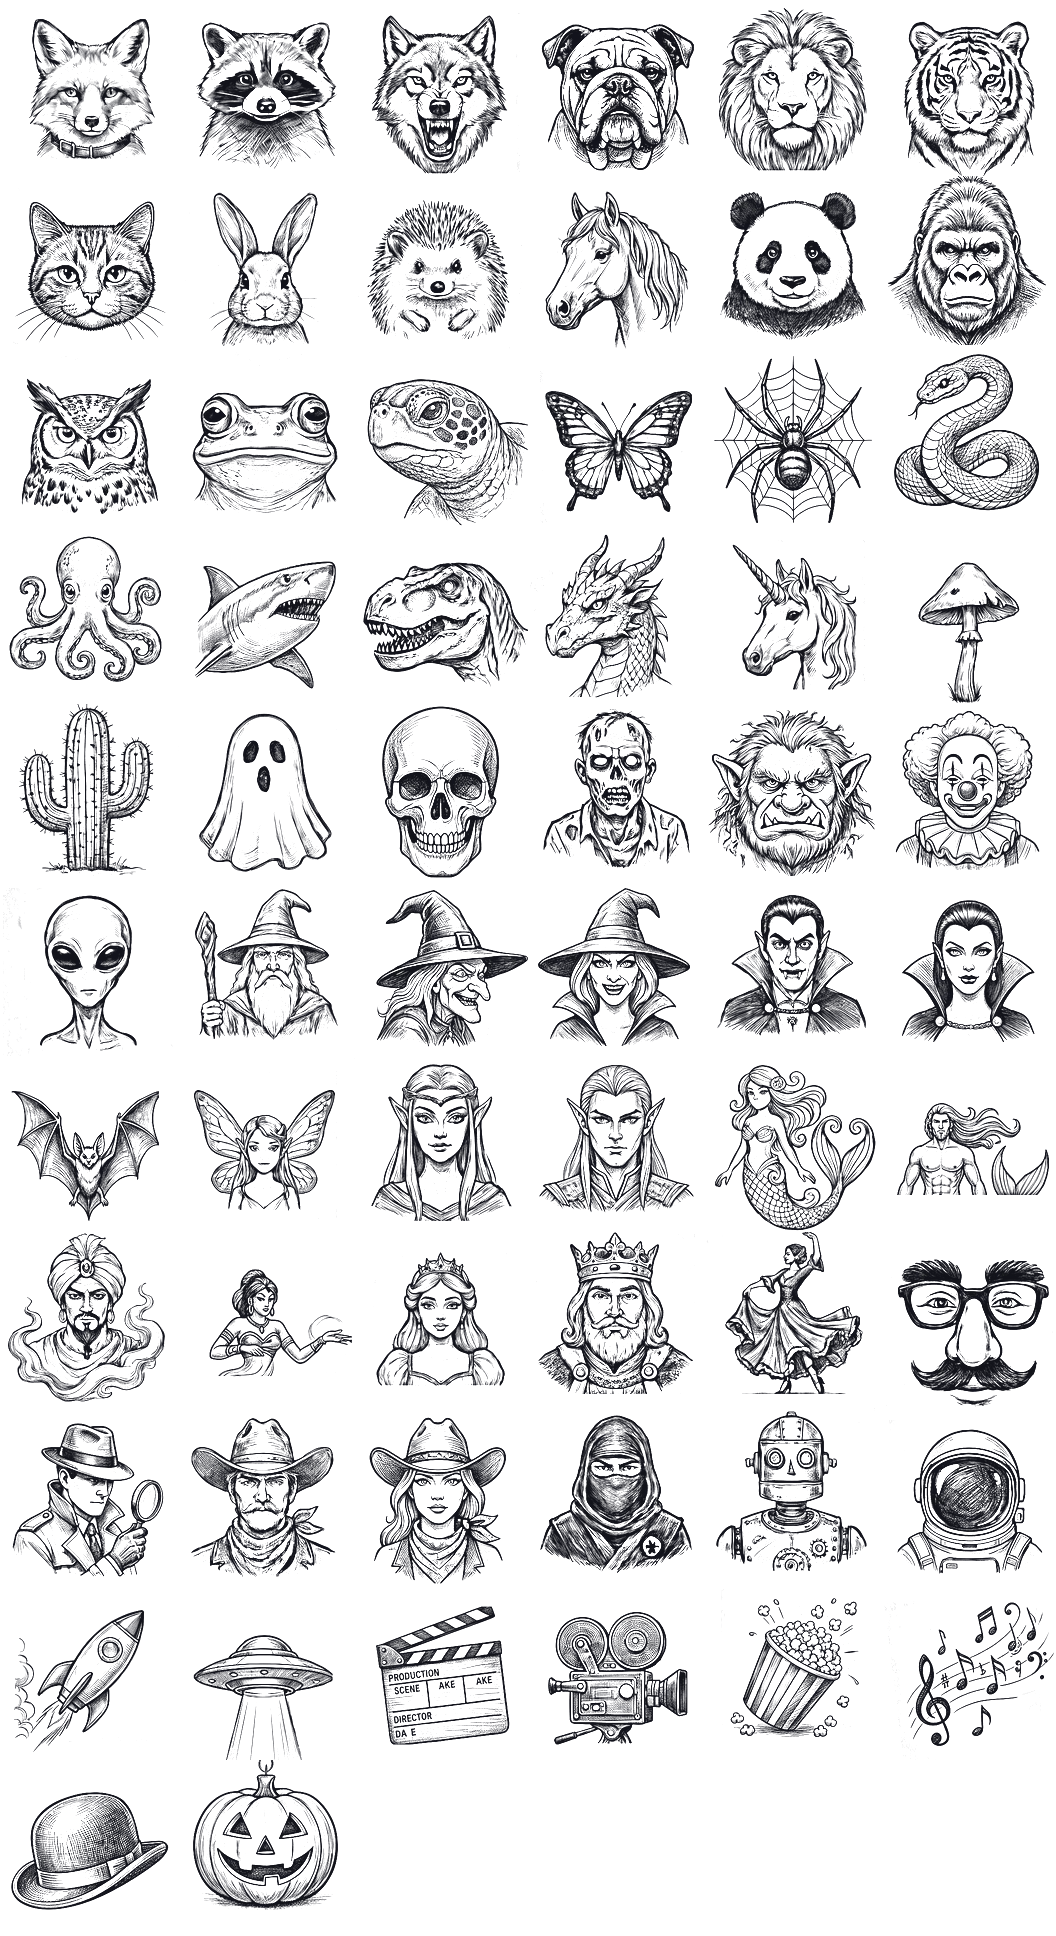
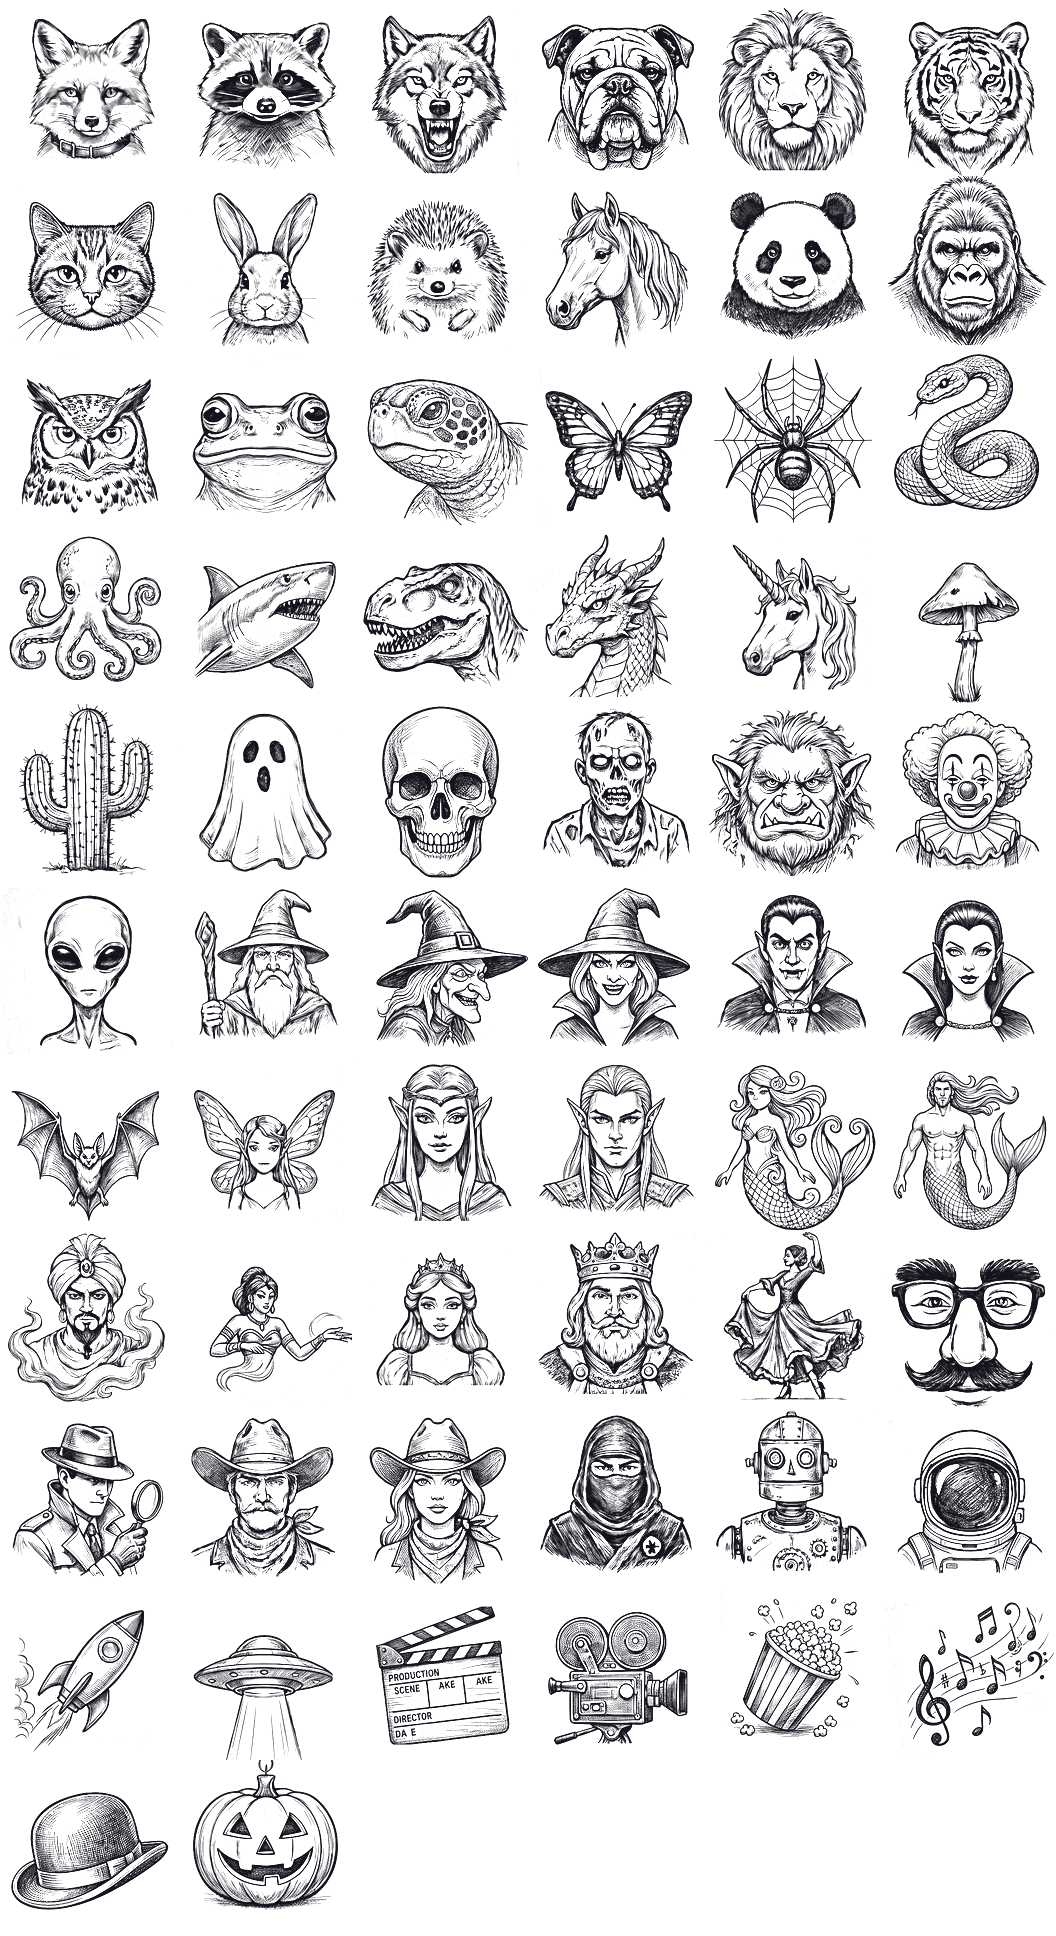
Let the wash hug the drawing (v0.48.2)
Reach drops from 0.060 to 0.045 across the set. The panda showed why: its ears
are solid black while its face is mostly white, so a wash driven by ink density
came out thick around the ears and tight everywhere else - an outline of uneven
weight around one head. Checked the tighter value on twelve deliberately varied
cells first, including the thin ones most at risk: the butterfly, the spider's
web, the music stave. All read better, so it is global rather than per-cell, and
it also removes the bulge that had appeared under the frog's chin.

The dancer is the one exception and takes a wider reach: her raised arm is a
thin stroke far from the rest of her and loses its ground at the default. She
also moves down so the arm sits inside the circle.

The merman and the genie go back to full figures. The moustache is re-centred.

Changed region(s): [[0.8438, 0.5579, 1.0, 0.7438], [0.6875, 0.6198, 0.8125, 0.7438], [0.1875, 0.6508, 0.3438, 0.7128]]

diff --git a/index.html b/index.html
@@ -14,9 +14,9 @@
 <script src="https://cdn.jsdelivr.net/npm/@supabase/supabase-js@2"></script>
 <!-- Versioned on purpose. index.html is served network-first while assets are
      cache-first, so without the query a fresh page could load a cached older
-     emoji.js - which is exactly what emptied the avatar picker after v0.48.1.
+     emoji.js - which is exactly what emptied the avatar picker after v0.48.2.
      Bump this with the release; sw.js precaches the same URL. -->
-<script src="./emoji.js?v=0.48.1"></script>
+<script src="./emoji.js?v=0.48.2"></script>
 <link rel="preconnect" href="https://fonts.googleapis.com">
 <link rel="preconnect" href="https://fonts.gstatic.com" crossorigin>
 <link href="https://fonts.googleapis.com/css2?family=Bebas+Neue&family=Oswald:wght@500;600;700&family=DM+Sans:wght@300;400;500;600&family=Noto+Sans+Georgian:wght@400;500;600;700&display=swap" rel="stylesheet">
@@ -2626,7 +2626,7 @@ button.is-pressed, .avatar-emoji-btn.is-pressed, .avatar-color-dot.is-pressed { 
         <div style="margin-top:6px" data-i18n="about_privacy" data-i18n-html="1">
           <a href="https://cinemail.app/privacy.html" target="_blank" rel="noopener" style="color:var(--accent-text);text-decoration:none">Privacy Policy</a>
         </div>
-        <div style="margin-top:8px;font-size:10px;color:var(--muted);opacity:0.7">Cinemail <span id="app-version">v0.48.1</span></div>
+        <div style="margin-top:8px;font-size:10px;color:var(--muted);opacity:0.7">Cinemail <span id="app-version">v0.48.2</span></div>
       </div>
 
       <div style="display:flex;gap:9px">

diff --git a/emoji.js b/emoji.js
@@ -7,11 +7,11 @@
 // Order is row-major, six per row, and must match the sheet exactly - a wrong index
 // silently shows the neighbouring character rather than failing, so ORDER below is the
 // single source of truth for both the picker and the avatar.
-const AVATAR_SPRITE = "./avatars.webp?v=0.48.1";     // the ink
+const AVATAR_SPRITE = "./avatars.webp?v=0.48.2";     // the ink
 // The subject's filled shape. With a sheet of paper under the drawing the card can be
 // the exact palette colour: the ink stays dark and legible on top of the paper, so the
 // colour never has to be lightened to carry it, and it never has to be inverted either.
-const AVATAR_FILL = "./avatars-fill.webp?v=0.48.1";
+const AVATAR_FILL = "./avatars-fill.webp?v=0.48.2";
 const AVATAR_COLS = 6;
 // Grouped, not arbitrary: the picker is 62 circles now, and it reads as sections -
 // animals, then creatures, then monsters, then magic folk, then people, then the

diff --git a/sw.js b/sw.js
@@ -1,5 +1,5 @@
 // ── Cache version — bump this string on every deploy to force refresh ──────────
-const CACHE_VERSION = "v177";
+const CACHE_VERSION = "v178";
 const CACHE_NAME = "cinemail-" + CACHE_VERSION;
 
 // Files to cache for offline use
@@ -10,9 +10,9 @@ const PRECACHE = [
   "./logo.png",
   "./icon.png",          // shown on the splash and all four auth screens, not just as the home-screen icon
   "./exceljs.min.js",
-  "./emoji.js?v=0.48.1",
-  "./avatars.webp?v=0.48.1",
-  "./avatars-fill.webp?v=0.48.1",
+  "./emoji.js?v=0.48.2",
+  "./avatars.webp?v=0.48.2",
+  "./avatars-fill.webp?v=0.48.2",
 ];
 
 // Minimal branded offline page — last-resort fallback so a home-screen launch with
